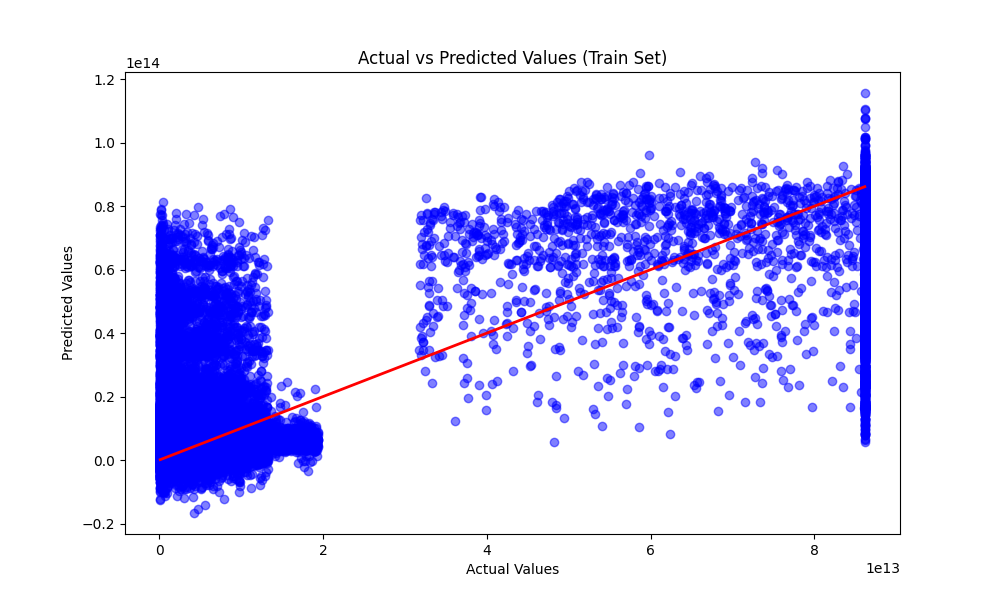
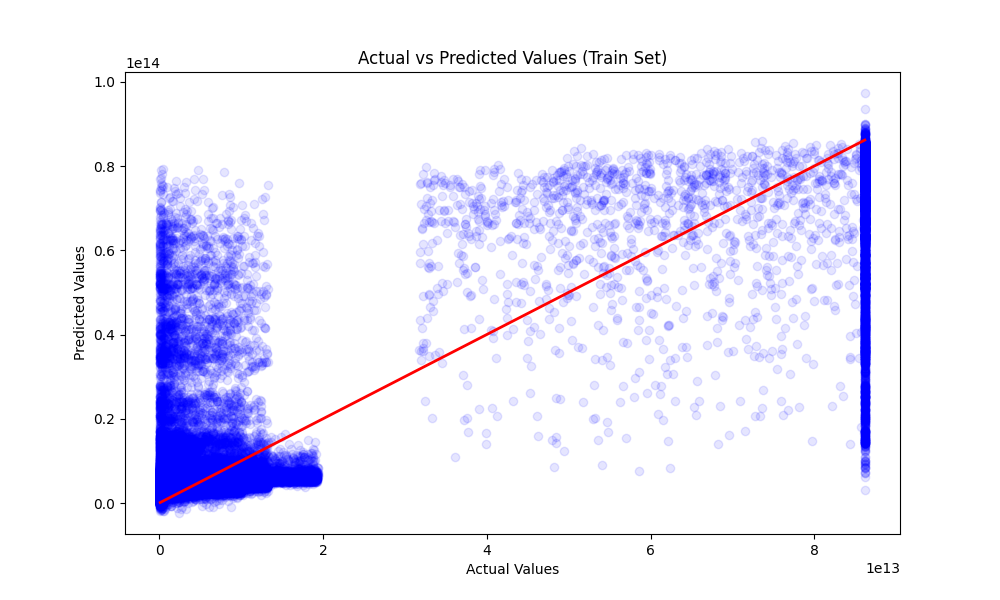
trying different preprocessing approache

diff --git a/src/data/data_preprocessing.py b/src/data/data_preprocessing.py
@@ -4,10 +4,12 @@ import numpy as np
 import os
 from sklearn.preprocessing import OneHotEncoder
 from sklearn.preprocessing import StandardScaler
+from sklearn.preprocessing import LabelEncoder
 import seaborn as sns
 import matplotlib.pyplot as plt
 import yaml
 from scipy.stats import boxcox
+
 
 #Reading the Train & Test Datasets
 def load_data(filepath:str)->pd.DataFrame:
@@ -29,10 +31,10 @@ def handle_missing_values(df:pd.DataFrame) ->pd.DataFrame:
     try:
 
         # Finding most frequent value to replace with
-        most_frequent_category= df["Marital Status"].mode()[0]
+       # most_frequent_category= df["Marital Status"].mode()[0]
         
         # Replace missing values/Unkowns with most_frequent_category
-        df["Marital Status"] = df["Marital Status"].replace("Unknown", most_frequent_category) 
+        #df["Marital Status"] = df["Marital Status"].replace("Unknown", most_frequent_category) 
 
         return df
 
@@ -77,10 +79,11 @@ def label_encoder(df:pd.DataFrame)->pd.DataFrame:
     try:
 
         #For Gender Column
-        df.replace({'Gender':{'Male':1,'Female':0}},inplace=True)
-        
+        label_encoder = LabelEncoder()
+        df['Gender'] = label_encoder.fit_transform(df['Gender'])
+        df['Marital Status'] = label_encoder.fit_transform(df['Marital Status'])
         #For Marital Status Column
-        df.replace({'Marital Status':{'Married':4,'Divorced':3,'Single':2,'Widowed':1}},inplace=True )
+        ##########df.replace({'Marital Status':{'Married':4,'Divorced':3,'Single':2,'Widowed':1}},inplace=True )
         return df
     except Exception as e :
         raise Exception(f"Error in applying label encoder : {e}")
@@ -100,12 +103,6 @@ def one_hot_encoder(df:pd.DataFrame)->pd.DataFrame:
 
 
 
-
-
-
-    # Initialize the OneHotEncoder
-    encoder = OneHotEncoder(sparse_output=False, drop='first')  # drop='first' to avoid the dummy variable trap
-
     # Reshape the 'Specialty' column to a 2D array (necessary for sklearn)
     specialty_encoded = encoder.fit_transform(df[['Specialty']])
 
@@ -116,7 +113,7 @@ def one_hot_encoder(df:pd.DataFrame)->pd.DataFrame:
     df = pd.concat([df.drop('Specialty', axis=1), encoded_df], axis=1)
 
     # Checking the first few rows of the updated dataset
-    # df_encoded.head()
+    print("HEREE " ,df.head())
     return df
   
   except Exception as e:
@@ -154,7 +151,7 @@ def transform(df : pd.DataFrame,col:str,transformation_type,apply_boxcox:bool) -
     transformation_types = {
             "square":lambda x: np.square(x),
             "cube":lambda x :x**2.5,
-            "sqrt":lambda x : np.sqrt(x),
+            "sqrt":lambda x : x,
             "log2":lambda x :np.log2(x),
             
      }
@@ -236,63 +233,64 @@ def main():
         
 
         # Applying missing values handlers for training & testing sets
-        train_data_processed = handle_missing_values(train_data)
-        test_data_processed = handle_missing_values(test_data)
+        train_df1 = handle_missing_values(train_data)
+        test_df1 = handle_missing_values(test_data)
 
 
         
         #Applying transformation functions for training & testing sets
 
             
-        train_data_processed= transform(train_data_processed,"Amount",transformation_type,apply_boxcox)
-        test_data_processed = transform(test_data_processed,"Amount",transformation_type,apply_boxcox)
+        train_df2 = transform(train_df1,"Amount",transformation_type,apply_boxcox)
+        test_df2 = transform(test_df1,"Amount",transformation_type,apply_boxcox)
 
         # winsorization flag
         if apply_winsorization:
-              train_data_processed= winsorization(train_data_processed,"Amount",lower_quantile,upper_quantile)
-              test_data_processed = winsorization(test_data_processed,"Amount",lower_quantile,upper_quantile)
+              train_df2= winsorization(train_df2,"Amount",lower_quantile,upper_quantile)
+              test_df2 = winsorization(test_df2,"Amount",lower_quantile,upper_quantile)
             
 
         #Applying encoding functions for training & testing sets
-        encoding_funcs = [label_encoder,one_hot_encoder]
 
-        for function in encoding_funcs:
-            train_data_processed= function(train_data_processed)
-            test_data_processed=function(test_data_processed)
+        
+        train_df3 = label_encoder(train_df2)
+        test_df3 = label_encoder(test_df2)
+        train_df4 = one_hot_encoder(train_df3)
+        test_df4 = one_hot_encoder(test_df3)
+  
 
         #Applying scaler function for training & testing sets
 
-        features_to_scale = ["Severity","Age","Marital Status"]
-        train_data_processed= scaler(train_data_processed,features_to_scale)
-        test_data_processed=  scaler  (test_data_processed,features_to_scale)
+        features_to_scale = ['Age', 'Marital Status', 'Severity']
+        train_df_final= scaler(train_df4,features_to_scale)
+        test_df_final=  scaler (test_df4,features_to_scale)
 
 
 
         #Checking if 4 value is removed from Martial Status column
-        unique_values = train_data_processed['Marital Status'].unique()
+        unique_values = train_df_final['Marital Status'].unique()
         print(unique_values)
 
         #Checking some samples of preprocessed data
-        print(train_data_processed.head())
+        print(train_df_final.head())
 
         #Checking Outliers for target variable using box plot
     
 
-        target_plots(train_data_processed,"Amount","Training Dataset")
+        target_plots(train_df_final,"Amount","Training Dataset")
 
-
-
+ 
         #Creating folder for processed data
         
         os.makedirs(processed_data_path,exist_ok=True)
 
         # Storing Processed training & testing sets as outputs
      
-        save_data(train_data_processed,os.path.join(processed_data_path,"train_processed.csv"))
-        save_data(test_data_processed,os.path.join(processed_data_path,"test_processed.csv"))
-        print(train_data_processed.info())
+        save_data(train_df_final,os.path.join(processed_data_path,"train_processed.csv"))
+        save_data(test_df_final,os.path.join(processed_data_path,"test_processed.csv"))
+        print(train_df_final.info())
 
-        train_data_processed.hist(bins =50 ,figsize=(12,8))
+        train_df_final.hist(bins =50 ,figsize=(12,8))
         plt.show()
     except Exception as e :
         raise Exception(f"An Error occured : {e}")

diff --git a/src/models/model_evaluation.py b/src/models/model_evaluation.py
@@ -5,7 +5,7 @@ import numpy as np
 import os
 import pickle
 import json
-from sklearn.metrics import r2_score
+from sklearn.metrics import r2_score,mean_absolute_error
 import matplotlib.pyplot as plt
 from sklearn.ensemble import RandomForestRegressor
 from dvclive import Live
@@ -30,19 +30,21 @@ def prepare_data(df:pd.DataFrame)->tuple[pd.DataFrame,pd.Series]:
 
 
 # Loading the regression model  
-def load_model(filepath:str)->RandomForestRegressor:
+def load_model(filepath:str):
     try:
         with open(filepath,"rb") as f:
-            model=  pickle.load(f)
-        return model
+            print(f"Loaded model from {filepath}")
+
+            return pickle.load(f)
+            
     except Exception as e:
-        raise Exception(print(f"Error loading the model from {filepath} : {e}"))
+        raise Exception(f"Error loading the model from {filepath} : {e}")
     
 # Plotting predicted vs actual values for test set
 def plot(Y:np.ndarray,data_prediction:pd.Series,set:str,color:str)->str:
     try:
         plt.figure(figsize=(10, 6))
-        plt.scatter(Y, data_prediction, color=color, alpha=0.5)
+        plt.scatter(Y, data_prediction, color=color, alpha=0.1)
         plt.plot([Y.min(), Y.max()], [Y.min(), Y.max()], color='red', linewidth=2)
         plt.xlabel('Actual Values')
         plt.ylabel('Predicted Values')
@@ -67,27 +69,29 @@ def evaluation_model(model,X_test: pd.DataFrame,Y_test :pd.Series,X_train: pd.Da
         kwargs= params["model_building"]["kwargs"]
         model_name = params["model_building"]["model_name"]
         # Predicting test & train sets
+        
+
         test_data_prediction = model.predict(X_test)
         train_data_prediction = model.predict(X_train)
+
+
         # Defining r square measure
         r2_test = r2_score(Y_test, test_data_prediction)
         r2_train = r2_score(Y_train,train_data_prediction)
-        # For debugging
-        print(X_test.shape)
-        print(X_train.shape)
-        print('R squared value (Test): ', r2_test)
-        print('R squared value (Train): ', r2_train)
+        mae = mean_absolute_error(test_data_prediction,Y_test)
+       
         
         # Plotting test & train datasets vs actual values diagrams
 
         test_plot = plot(Y_test,test_data_prediction,"Test","green")
         train_plot = plot(Y_train,train_data_prediction,"Train","blue")
-  
+
 
         # Logging experiment results
         with Live(save_dvc_exp=True) as live:
             live.log_metric("r2_test",r2_test)
             live.log_metric("r2_train",r2_train)
+            live.log_metric("MAE",mae)
             live.log_param("test_size",test_size)
             live.log_param("kwargs",kwargs)
             live.log_param("model_name",model_name)
@@ -97,8 +101,11 @@ def evaluation_model(model,X_test: pd.DataFrame,Y_test :pd.Series,X_train: pd.Da
         # Returning metrics dictionary
         metrics_dict= {
                  "r2_test":r2_test,
-                 "r2_train":r2_train
+                 "r2_train":r2_train,
+                 "mae":mae
             }
+        print(f"Model Evaluation Results: {metrics_dict}")
+
         return metrics_dict
     except Exception as e:
         raise Exception(f"Error occured during model evaluation : {e}")
@@ -113,18 +120,19 @@ def save_metrics(metrics_dict:dict,metrics_path:str)->None:
         raise Exception(f"Error saving metrics to {metrics_path} : {e}")
 
 # Main function
-x=421412
+
 def main():
     try:
         # Defining data , model and metrics paths
-        test_data_path = "./data/interim/test_engineered.csv"
-        train_data_path = "./data/interim/train_engineered.csv"
-        model_path = "models/model.pkl"
+        train_data_path = "./data/processed/train_processed.csv"
+        test_data_path = "./data/processed/test_processed.csv"
+        model_path = "models/model.joblib"
         metrics_path = "reports/metrics.json"
-
+    
         # Loading test & prepare datasets
         test_data =load_data(test_data_path)
         train_data = load_data(train_data_path)
+        print("from model evaluation",train_data.info())
         # Defining X-test & Y-test
         X_test,Y_test = prepare_data(test_data)
 
@@ -133,11 +141,12 @@ def main():
 
         # Loading Model
         model = load_model(model_path)
-
-        # Getting metrics based on model and test set
-        metrics = evaluation_model(model,X_test, Y_test,X_train,Y_train)
-
-        # Saving results of metrics
+       
+        
+        # Getting metrics based on mode l and test set
+        metrics = evaluation_model(model=model,X_test=X_test, Y_test=Y_test,X_train=X_train,Y_train=Y_train)
+       
+        # # Saving results of metrics
         save_metrics(metrics,metrics_path)
     except Exception as e:
         raise Exception(f"Error Occured  : {e}")

diff --git a/src/models/model_building.py b/src/models/model_building.py
@@ -2,7 +2,7 @@
 import pandas as pd
 import numpy as np
 import os
-import pickle
+import joblib
 import yaml
 from sklearn.ensemble import RandomForestRegressor
 from sklearn.tree import DecisionTreeRegressor
@@ -30,9 +30,9 @@ def load_data(filepath:str)->pd.DataFrame:
 # Preparing Training & Testing Datasets function
 def prepare_data(df:pd.DataFrame)->tuple[pd.DataFrame,pd.Series]:
     try:
-        x_train = df.drop(columns=["Amount"],axis= 1)
-        y_train = df["Amount"]
-        return x_train , y_train
+        X = df.drop('Amount',axis= 1)
+        Y = df["Amount"]
+        return X , Y
     except Exception as e:
         raise Exception(f"Error Preparing Datasets : {e}")
 
@@ -71,21 +71,21 @@ def save_model(model, filepath:str) -> None:
     try:
         with open(filepath,"wb") as f:
 
-            pickle.dump(model,f)
+            joblib.dump(model,f)
 
     except Exception as e:
         raise Exception(f"Error occured during saving the model to path : {filepath}  : {e}")
-checker=2
+
 def main():
     try:
         # Defining paths & model name
         params_path = "params.yaml"
         train_data_path = "./data/interim/train_engineered.csv"
         test_data_path = "./data/interim/test_engineered.csv"
-        model_save_path = "models/model.pkl"
+        model_save_path = "models/model.joblib"
 
         # Loading hyperparameters    
-        
+    
         
         params = load_params(params_path)
         model_name = params["model_building"]["model_name"]
@@ -93,26 +93,29 @@ def main():
      
         # Loading the train dataset 
         train_dataset =load_data(train_data_path)
-       
+        test_dataset = load_data(test_data_path)
+      
         # Preparing x_train , y_train data for fitting
         x_train , y_train = prepare_data(train_dataset)
-        
+        x_test,y_test = prepare_data(test_dataset)
         # Training the model & fitting the data
+    
 
+        print(f"Train features shape: {x_train.shape}")
+        print(f"Train target shape: {y_train.shape}")
+        print(f"Test features shape: {x_test.shape}")
+        print(f"Test target shape: {y_test.shape}")
 
+    
+        model = train_model(x_train=x_train,y_train=y_train,kwargs=model_kwargs,model_name=model_name)
 
-        model =  train_model(x_train,y_train,model_name=model_name,kwargs=model_kwargs)
-        
         # Saving the model
         save_model(model,model_save_path)
 
     except Exception as e:
-        print(f"An Error Occured : {e}")
+        raise Exception(f"An Error Occured : {e}")
     
-    # Printing shape for debugging issues
-        print(x_train.shape)
-        print(y_train.shape)
-
+  
     
 
 if __name__ == "__main__":

diff --git a/src/data/data_collection.py b/src/data/data_collection.py
@@ -17,7 +17,7 @@ def load_data(filepath: str,batch_size:int)->pd.DataFrame:
 
 
 #Load params function
-def load_params(filepath : str)->float:
+def load_params(filepath : str):
     try:
         with open(filepath,"r") as f:
             params = yaml.safe_load(f)
@@ -62,11 +62,12 @@ def main():
         dataset = load_data(data_filepath,batch_size)
         print("shape of raw dataset",dataset.shape) 
         train_data , test_data = split_data(dataset,test_size)
+        
 
-
+        print(train_data.shape)
         #Create data folder 
 
-        os.makedirs(raw_data_path)
+        os.makedirs(raw_data_path,exist_ok=True)
 
         #Storing training & testing sets as csv files
         
